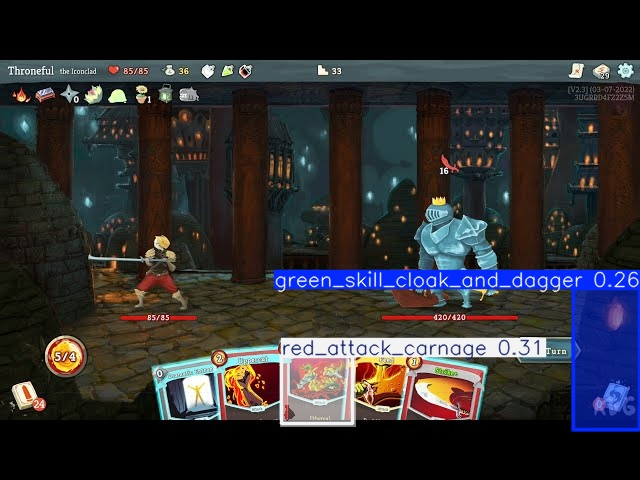
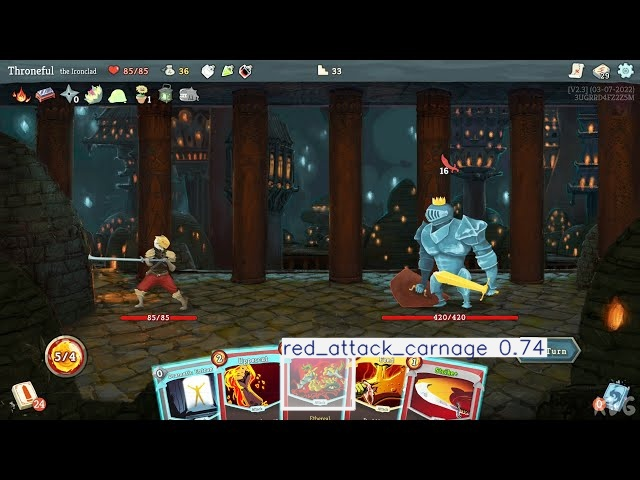
Two stages change of strategy

Changed region(s): [[0.4062, 0.5625, 1.0, 0.9062], [0.4375, 0.8438, 0.5625, 0.9062]]

diff --git a/Card_Segment.py b/Card_Segment.py
@@ -1,0 +1,36 @@
+from ultralytics import YOLO
+from pathlib import Path
+
+# Paths remain untouched
+MAIN_DIR = Path.cwd()
+YAML_PATH = MAIN_DIR / "output" / "data.yaml"
+RUN_NAME = "card_segment"
+LAST_WEIGHTS = MAIN_DIR / "runs" / "segment" / RUN_NAME / "weights" / "last.pt"
+
+def train_finder_model():
+    if LAST_WEIGHTS.exists():
+        print(f"Resuming training from the last saved epoch at {LAST_WEIGHTS}")
+        model = YOLO(str(LAST_WEIGHTS))
+        results = model.train(resume=True)
+    else:
+        print("No previous run found. Training Stage 1 Finder.")
+        # yolov8s-seg is perfect for finding a single class incredibly fast
+        model = YOLO("yolov8s-seg.pt")
+
+        results = model.train(
+            data=str(YAML_PATH),
+            epochs=1,
+            imgsz=640,
+            batch=128,
+            workers=8,
+            device=[0,1],
+            name=RUN_NAME,
+            exist_ok=True,
+            single_cls=True
+        )
+
+    print("Finder training complete")
+    print(f"Best model weights are saved in 'runs/segment/{RUN_NAME}/weights/best.pt'")
+
+if __name__ == "__main__":
+    train_finder_model()

diff --git a/Card_Classifier.py b/Card_Classifier.py
@@ -1,0 +1,28 @@
+from ultralytics import YOLO
+from pathlib import Path
+
+MAIN_DIR = Path.cwd()
+CLS_DATA_DIR = MAIN_DIR / "output" / "cropped_cards" 
+RUN_NAME = "card_classifier"
+
+def train_classification_model():
+    print("Training Classifier...")
+    
+    model = YOLO("yolov8s-cls.pt") 
+
+    results = model.train(
+        data=str(CLS_DATA_DIR),
+        epochs=50,
+        imgsz=224,
+        batch=128,
+        workers=8,
+        device=[0,1],
+        name=RUN_NAME,
+        exist_ok=True
+    )
+
+    print("Classifier training complete")
+    print(f"Best model weights are saved in 'runs/classify/{RUN_NAME}/weights/best.pt'")
+
+if __name__ == "__main__":
+    train_classification_model()

diff --git a/Test_CardVision.py b/Test_CardVision.py
@@ -6,7 +6,7 @@ RUN_NAME = "hand_vision"
 
 WEIGHTS_PATH = MAIN_DIR / "runs" / "segment" / RUN_NAME / "weights" / "best.pt"
 
-SCREENSHOT_NAME = "screenshot_2.jpg" 
+SCREENSHOT_NAME = "screenshot_1.jpg" 
 IMAGE_PATH = MAIN_DIR / "Screenshots" / SCREENSHOT_NAME
 
 def test_on_screenshot():
